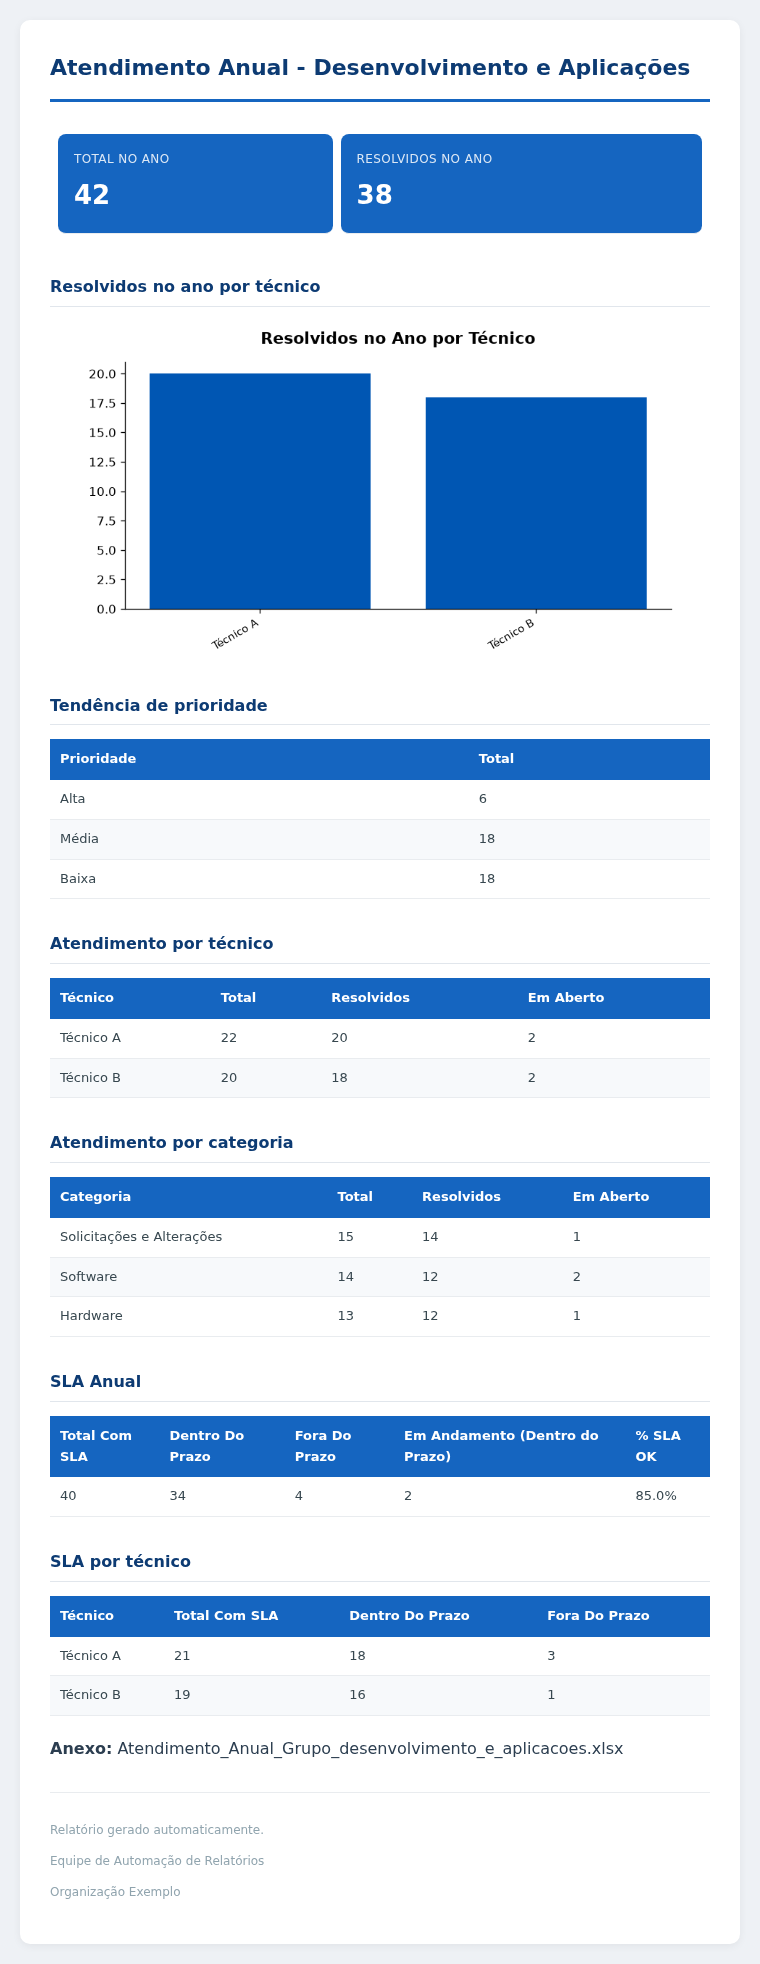
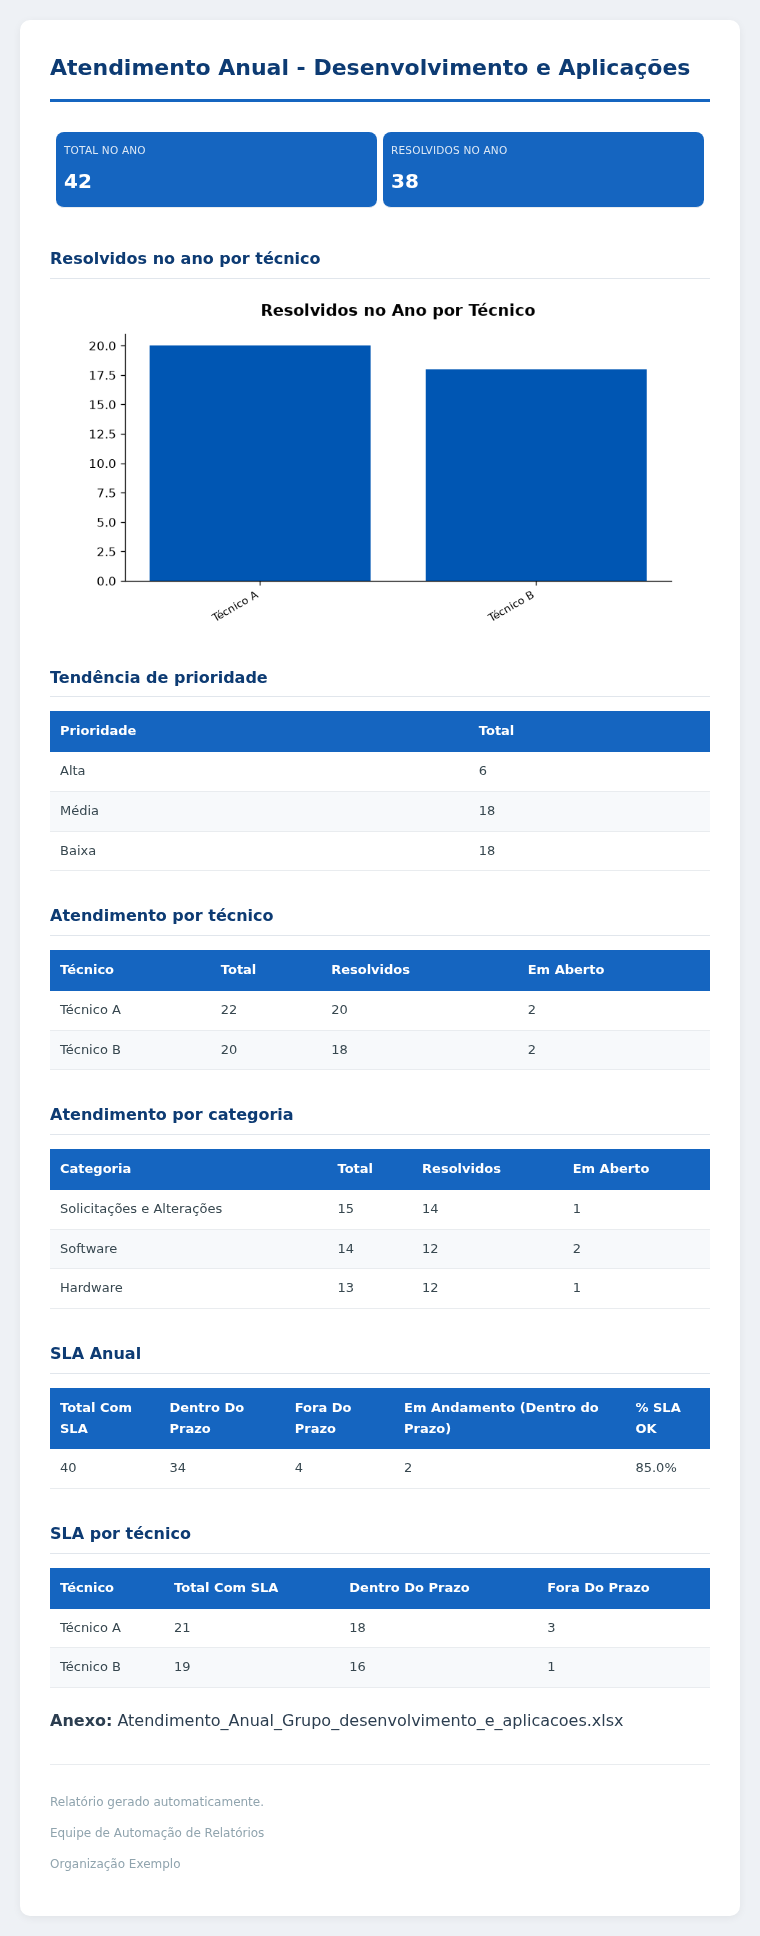
Corrige alinhamento dos cards de KPI no e-mail
table.kpi-grid não tinha table-layout: fixed, então o navegador
dimensionava cada coluna pelo conteúdo — o rótulo mais longo
("Desenvolvimento e Aplicações") empurrava sua coluna mais larga que
as outras, desalinhando a grade. Com table-layout: fixed as colunas
ficam iguais; padding/fonte dos cards reduzidos para o texto caber
nas 5 colunas sem quebrar no meio da palavra.

diff --git a/templates/css/email_styles.css b/templates/css/email_styles.css
@@ -43,28 +43,31 @@ h2.secao {
 /* ===== KPI Cards (via tabela, compatível com Outlook) ===== */
 table.kpi-grid {
     width: 100%;
+    table-layout: fixed;
     border-collapse: separate;
-    border-spacing: 8px;
+    border-spacing: 6px;
     margin-bottom: 8px;
 }
 table.kpi-grid td.kpi-card {
     background-color: #1565c0;
     border-radius: 8px;
-    padding: 16px;
+    padding: 10px 8px;
     text-align: left;
     color: #ffffff;
     vertical-align: top;
+    word-wrap: break-word;
+    overflow-wrap: break-word;
 }
 .kpi-label {
-    font-size: 12px;
+    font-size: 10.5px;
     opacity: 0.85;
     text-transform: uppercase;
-    letter-spacing: 0.4px;
+    letter-spacing: 0.2px;
     display: block;
     margin-bottom: 6px;
 }
 .kpi-value {
-    font-size: 26px;
+    font-size: 20px;
     font-weight: 700;
     display: block;
 }
